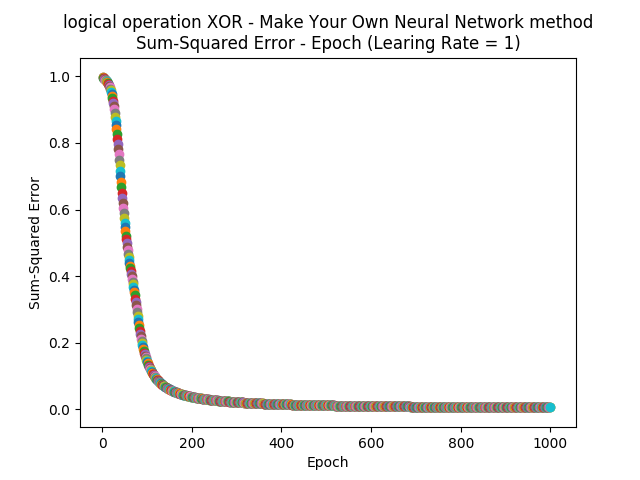
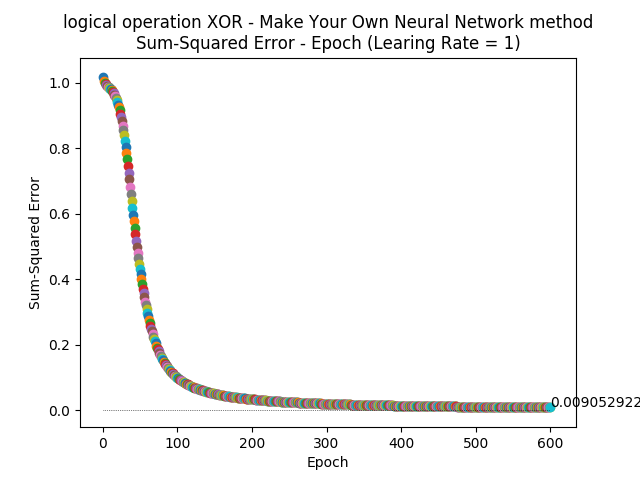
hw3 problem 2 revised

diff --git a/HW4/problem_1_revised.py b/HW4/problem_1_revised.py
@@ -7,7 +7,7 @@ class neuralNetwork:
     def __init__(self, inputnodes, hiddennodes, outputnodes, learningrate):
         # numbers of nodes of each layer
         self.i = inputnodes + 1  # first input is for threshold
-        self.j = hiddennodes + 1 # first input is for threshold
+        self.j = hiddennodes + 1  # first input is for threshold
         self.k = outputnodes
         
         # --- Weight Matrix ----------------------------------------------
@@ -20,16 +20,17 @@ class neuralNetwork:
 
         # Initailizing the weight with "Xavier initialization"
         # Normal distribution with deviation = sqrt(1/#of nodes of previous layer)
-        self.wij = np.random.randn(self.j, self.i)*np.sqrt(1/self.i)
-        self.wjk = np.random.randn(self.k, self.j)*np.sqrt(1/self.j)
-        
+        self.wij = np.random.randn(self.j, self.i)*np.sqrt(1/(self.i))
+        self.wjk = np.random.randn(self.k, self.j)*np.sqrt(1/(self.j))
+
         # ----------------------------------------------------------------
 
         # learning rate
         self.lr = learningrate
         
         # activation function: sigmoid 
-        self.activation_function = lambda x: scipy.special.expit(x)
+        self.activation_function = lambda x: scipy.special.expit(x)  # unipolar
+        # self.activation_function = lambda x: 2 * scipy.special.expit(x) - 1  # Bipolar
         
         pass
 
@@ -48,12 +49,12 @@ class neuralNetwork:
         delta_k = (targets - yk) * yk * (1 - yk)  # (self.k x 1) element-wise multiplication
         
         # option 1: from "Make Your Own Neural Network" 
-        #self.wjk += self.lr * np.dot(delta_k, np.transpose(yj))  
-        #delta_j = np.dot(np.transpose(self.wjk), (targets - yk)) * yj * (1 - yj)  
+        self.wjk += self.lr * np.dot(delta_k, np.transpose(yj))  
+        delta_j = np.dot(np.transpose(self.wjk), (targets - yk)) * yj * (1 - yj)  
 
         # option 2: from lecure notes
-        self.wjk += self.lr * np.dot(delta_k, np.transpose(yj))  
-        delta_j = np.dot(np.transpose(self.wjk), delta_k) * yj * (1 - yj)  
+        #self.wjk += self.lr * np.dot(delta_k, np.transpose(yj))  
+        #delta_j = np.dot(np.transpose(self.wjk), delta_k) * yj * (1 - yj)  
 
         self.wij += self.lr * np.dot(delta_j, np.transpose(xi))
 
@@ -96,10 +97,6 @@ class neuralNetwork:
 
             plt.scatter(x+1, sum_squared_errors)
 
-            # label the last error
-            if x == (epoch - 1):
-                plt.annotate(sum_squared_errors[0, 0], (x+1, sum_squared_errors))
-        
         # plot error = 0 line
         plt.plot(np.linspace(0,epoch,epoch), [0]*epoch, 'k:', linewidth=0.5)
 
@@ -113,27 +110,44 @@ def main():
 
     # --- User Inputs --------------------------------------------------
 
+    # target function with 2 variables(x and y) 
+    target_func = lambda x, y: np.cos(0.7*x+2.0*y) + 0.8*x*y
+
+    # x range
+    x_start = -1
+    x_end = 1
+
+    # y range
+    y_start = -1
+    y_end = 1
+
+    # x, y step number in the range
+    step = 100
+
     # title of the plot
-    #title = 'logical operation XOR - Make Your Own Neural Network method'
-    title = 'logical operation XOR - Lecture notes method'
+    title = 'Function Approximation (Unipolar sigmoid)(30 hidden nodes)'
 
     # number of Epoch
-    epoch = 600
+    epoch = 200
 
     # learning rate
     learing_rate = 1
 
     # Inputs & Targets
-    inputs_list.append([-1, -1]); targets_list.append([0])
-    inputs_list.append([-1, 1]); targets_list.append([1])
-    inputs_list.append([1, -1]); targets_list.append([1])
-    inputs_list.append([1, 1]); targets_list.append([0])
+    x = x_start
+    y = y_start
+
+    for i in range(step):
+        inputs_list.append([x, y])
+        targets_list.append([target_func(x, y)])
+        x += (x_end - x_start)/step
+        y += (y_end - y_start)/step
 
     # numbers of input nodes
     input_nodes = len(inputs_list[0])
 
     # numbers of hidden nodes (should >= input nodes)
-    hidden_nodes = 2
+    hidden_nodes = 30
 
     # numbers of output nodes
     output_nodes = len(targets_list[0])

diff --git a/README.md b/README.md
@@ -80,12 +80,12 @@ class neuralNetwork:
         delta_k = (targets - yk) * yk * (1 - yk)  # (self.k x 1) element-wise multiplication
         
         # option 1: from "Make Your Own Neural Network" 
-        #self.wjk += self.lr * np.dot(delta_k, np.transpose(yj))  
-        #delta_j = np.dot(np.transpose(self.wjk), (targets - yk)) * yj * (1 - yj)  
+        self.wjk += self.lr * np.dot(delta_k, np.transpose(yj))  
+        delta_j = np.dot(np.transpose(self.wjk), (targets - yk)) * yj * (1 - yj)  
 
         # option 2: from lecure notes
-        self.wjk += self.lr * np.dot(delta_k, np.transpose(xj))  
-        delta_j = np.dot(np.transpose(self.wjk), delta_k) * yj * (1 - yj)  
+        #self.wjk += self.lr * np.dot(delta_k, np.transpose(xj))  
+        #delta_j = np.dot(np.transpose(self.wjk), delta_k) * yj * (1 - yj)  
 
         self.wij += self.lr * np.dot(delta_j, np.transpose(xi))
 
@@ -105,14 +105,14 @@ class neuralNetwork:
 
 
     # train, test, plot
-    def test(self, epoch, inputs_list, targets_list):  # list of inputs list, targets list
+    def test(self, epoch, inputs_list, targets_list, title):  # list of inputs list, targets list
         # Add the threshold input
         for i in range(len(inputs_list)):
             inputs_list[i] = [-1] + inputs_list[i]
 
         # Plot the Sum-Squared Error - Epoch
         #plt.axis([0, epoch+1, 0, 1.1])
-        plt.title('Sum-Squared Error - Epoch\n Learing Rate = ' + str(self.lr))
+        plt.title(title + '\nSum-Squared Error - Epoch (Learing Rate = ' + str(self.lr) + ')')
         plt.xlabel('Epoch')
         plt.ylabel('Sum-Squared Error')
 
@@ -138,6 +138,11 @@ def main():
     inputs_list = []  # list of inputs list
     targets_list = []  # list of targets list
 
+    # --- User Inputs --------------------------------------------------
+
+    # title of the plot
+    title = 'logical operation XOR - Make Your Own Neural Network method'
+
     # number of Epoch
     epoch = 1000
 
@@ -159,11 +164,13 @@ def main():
     # numbers of output nodes
     output_nodes = len(targets_list[0])
 
+    # ----------------------------------------------------------------
+
     # Create an instance of neuralNetwork with the learning rate specified
     nn = neuralNetwork(input_nodes, hidden_nodes, output_nodes, learing_rate)
 
     # Train & Test & Plot sum-square errors
-    nn.test(epoch, inputs_list, targets_list)
+    nn.test(epoch, inputs_list, targets_list, title)
     
 if __name__ == '__main__':
     main()
